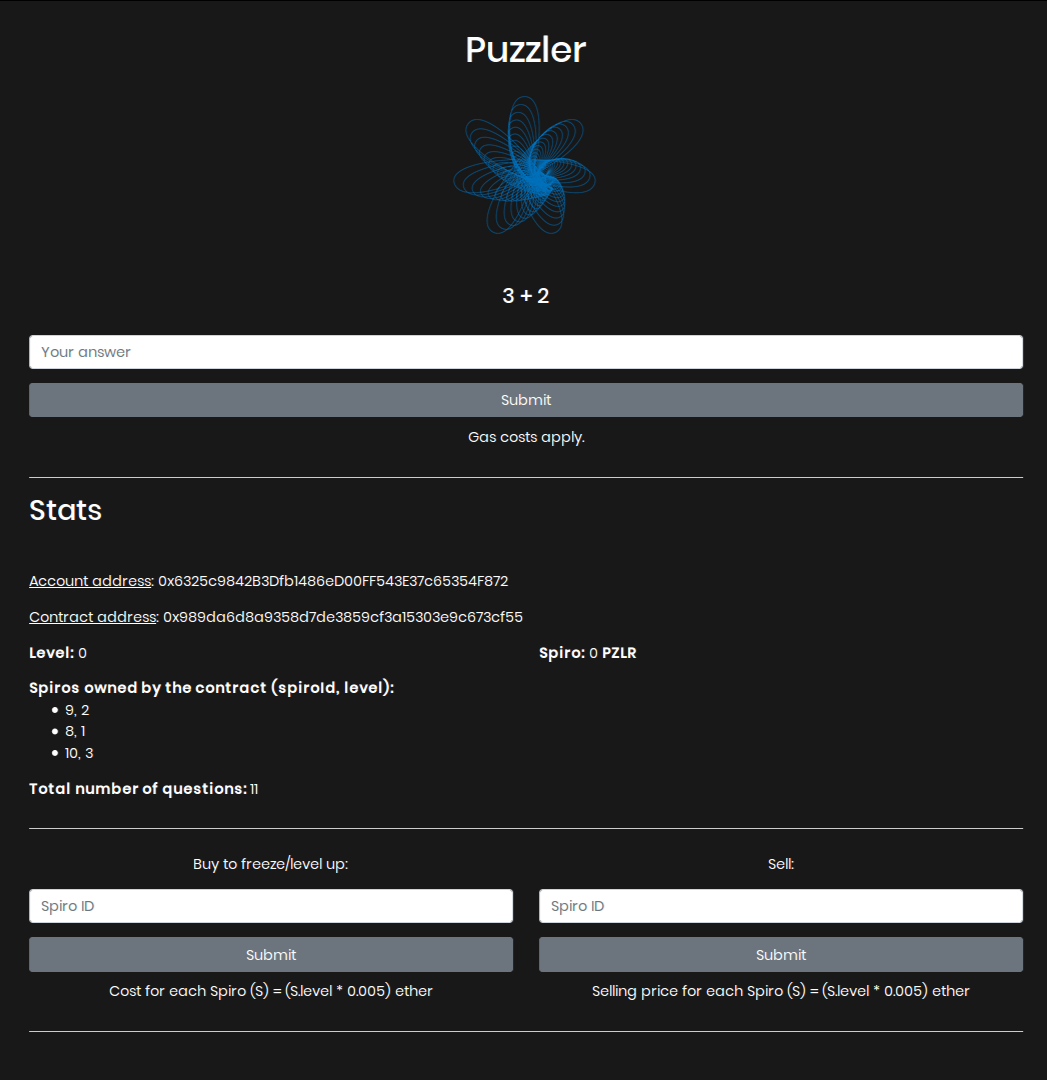
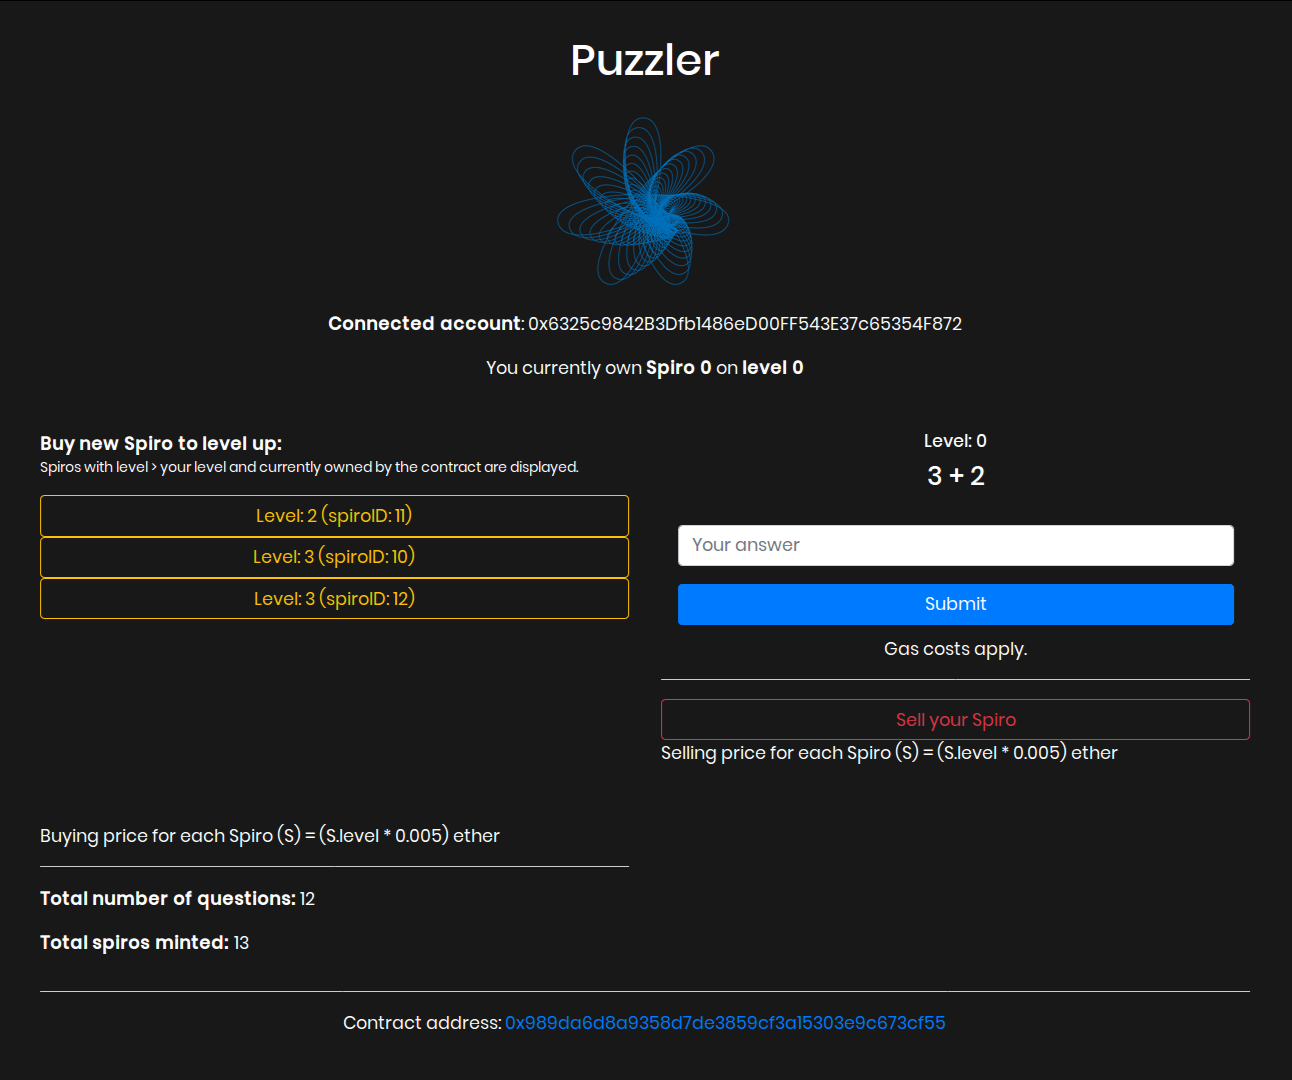
improved UI

diff --git a/src/App.vue b/src/App.vue
@@ -4,12 +4,50 @@
       <b-col>
         <h1>Puzzler</h1>
         <img src="./assets/spiro/spiro3.png" class = "unknown-viper">
+        <p><b>Connected account</b>: {{ account }}</p>
+        <p>You currently own <b>Spiro {{ spiro }}</b> on <b>level {{ level }} </b></p>
       </b-col>
     </b-row>
 
     <b-row>
+      <b-col>
+    <b-row>
+      <b-col>
+        
+        <p><b>
+          <!-- Spiros owned by the contract (spiroID, level):  -->
+          Buy new Spiro to level up:
+          <small><p>Spiros with level > your level and currently owned by the contract are displayed.</p></small>
+          </b> 
+
+          <!-- <ul> 
+            <li v-for ="i in contractSpiros"> {{ i }} </li> 
+          </ul>  -->
+          <div v-if="contractSpiros.length == 0"> <p> No Spiros available to level up. </p></div>
+          <div id = "contractSpiros">
+            <b-button v-for="i in contractSpiros" v-bind:item="i[1]" v-bind:key="i[0]"   variant="outline-warning"
+            v-on:click="buyNew(i[0])">Level: {{ i[1] }} (spiroID: {{ i[0] }})</b-button>
+          </div>
+          <span style="color:white;">Buying price for each Spiro (S) = (S.level * 0.005) ether </span>
+      </b-col>
+    </b-row>
+      <!-- <h4 class="mb-5">Stats</h4> -->
+    <hr>
+    <b-row>
+      <b-col>
+        <p><b>Total number of questions: </b> {{ questions.length }} </p>
+      </b-col>
+    </b-row>
+    <b-row>
+      <b-col>
+        <p><b>Total spiros minted: </b> {{ totalSpiros }} </p>
+      </b-col>
+    </b-row>
+      </b-col>
+      <b-col>
       <b-col class="action-container">
         <h4>
+          <h6>Level: {{ level }} </h6>
           {{ questions[level].question }}
         </h4>
         <b-form>
@@ -25,46 +63,16 @@
           </b-form-group>
           <b-button 
           v-if="!isLoading"
+          variant="primary"
           v-on:click="createSpiro" type="button">Submit</b-button>
           
           <p>Gas costs apply.</p>
         </b-form>
       </b-col>
-    </b-row>
-
-    <hr>
-    <h2 class="mb-5">Stats</h2>
-    <p><u>Account address</u>: {{ account }} </p>
-    <p><u>Contract address</u>: {{ contractAddr }} </p>
-
-    <b-row>
-      <b-col>
-        <p><b>Level: </b>{{ level }}</p>
-      </b-col>
-      <b-col>
-        <p><b>Spiro: </b> {{ spiro }} <b>PZLR</b> </p>
-      </b-col>
-    </b-row>
-    <b-row>
-      <b-col>
-        <p><b>Spiros owned by the contract (spiroID, level): </b> <ul> <li v-for ="i in contractSpiros"> {{ i }}  </li> </ul> </p>
-        <small><p>Spiros with level > 0 are displayed.</p></small>
-      </b-col>
-    </b-row>
-    <b-row>
-      <b-col>
-        <p><b>Total number of questions: </b> {{ questions.length }} </p>
-      </b-col>
-    </b-row>
-    <b-row>
-      <b-col>
-        <p><b>Total spiros minted: </b> {{ totalSpiros }} </p>
-      </b-col>
-    </b-row>
-    <hr>
-  <b-row>
-    <b-col class="action-container">
-    <b-form>
+      <hr>
+      <b-row>
+    <!-- <b-col class="action-container"> -->
+    <!-- <b-form>
         <b-col class="middle-container">
         <img v-if="isLoading" src="https://media.giphy.com/media/11cXHq5SBfWbug/giphy.gif"></b-col>
         <b-form-group v-if="!isLoading">
@@ -72,7 +80,8 @@
             <b-form-input id="spiroIdToBuy"
                           v-model="spiroIdToBuy"
                           required
-                          placeholder="Spiro ID">
+                          placeholder="Spiro ID"
+                          >
             </b-form-input>
           </b-form-group>
           <b-button 
@@ -80,37 +89,46 @@
           v-on:click="buyNew" type="button">Submit</b-button>
           
           <p>Cost for each Spiro (S) = (S.level * 0.005) ether </p>
-        </b-form>
-    </b-col>
+        </b-form> -->
+    <!-- </b-col> -->
+      <br>
+      <br> 
     <b-col class="action-container">
-    <b-form>
         <b-col class="middle-container">
         <img v-if="isLoading" src="https://media.giphy.com/media/11cXHq5SBfWbug/giphy.gif"></b-col>
-        <b-form-group v-if="!isLoading">
-          <p>Sell:</p>
-            <b-form-input id="sellSpiroId"
-                          v-model="sellSpiroId"
-                          required
-                          placeholder="Spiro ID">
-            </b-form-input>
-          </b-form-group>
-          
-      
+        <div v-if="!isLoading">
           <b-button 
+          variant="outline-danger"
           v-if="!isLoading"
-          v-on:click="sellSpiro" type="button">Submit</b-button>
-          
-          <p>Selling price for each Spiro (S) = (S.level * 0.005) ether </p>
-        </b-form>
+          v-b-modal.modal-1
+          type="button">Sell your Spiro</b-button>
+          <b-modal 
+            id="modal-1" 
+            title="Alert" 
+            @ok="sellSpiro(spiro)" 
+            ok-variant="danger"
+            ok-title="Sell Anyway" 
+            size = "sm"
+          >
+            <p class="my-4" style="color:black;">Selling your spiro resets your level to 0.</p>
+          </b-modal>
+        </div>
+          <span style="color:white;">Selling price for each Spiro (S) = (S.level * 0.005) ether </span>
     </b-col>
     </b-row>
+      </b-col>
+    </b-row>
     <hr>
+    <!-- <center><p>Hosted with &#x1F49B; at: <a href="https://ropsten.etherscan.io/address/0x989da6d8a9358d7de3859cf3a15303e9c673cf55"> {{ contractAddr }} </a> </p></center> -->
+    <center><p>Contract address: <a href="https://ropsten.etherscan.io/address/0x989da6d8a9358d7de3859cf3a15303e9c673cf55"> {{ contractAddr }} </a> </p></center>
+
   </b-container>
 </template>
 
 <script>
 import allQuestions from './components/questions.json';
 import getWeb3 from '../contracts/web3';
+// import FlipCard from 'vue-flip-card';
 import contractAbi from '../contracts/abi';
 //puzzlerContract
 const contractAddress = '0x989da6d8a9358d7de3859cf3a15303e9c673cf55';
@@ -129,8 +147,9 @@ export default {
       contractSpiros: [],
       isLoading: false,
       questions: allQuestions,
-      totalSpiros: null
-      
+      totalSpiros: null,
+      openStats: false,
+      dummyContractSpiros: null,
     };
   },
   mounted() {
@@ -138,13 +157,9 @@ export default {
       this.web3 = res;
       this.contractInstance = new this.web3.eth.Contract(contractAbi, contractAddress);
       this.web3.eth.getAccounts().then((accounts) => {
-        // [this.account] = accounts;
         this.account = accounts[0];
         this.getSpiro();
-        // this.getLevel();
-        // this.getSpiros();
         this.getContractSpiros();
-        // this.getSpirosOnSale();
         this.getTotalSpiros();
       }).catch((err) => {
         console.log(err, 'err!!');
@@ -153,29 +168,38 @@ export default {
   },
 
   methods: {
-    
+    openStats(){
+      openStats = true;
+    },
     createSpiro () {
       if (matron.value == this.questions[this.level].answer) {
-      this.isLoading = true;
-      this.contractInstance.methods.createSpiro(this.level).send({
-        from: this.account
+          this.isLoading = true;
+          if (this.level == 0) {
+          this.level ++;
+          this.isLoading = false;
+          this.getContractSpiros();
+      }
+      else {
+          this.contractInstance.methods.createSpiro(this.level).send({
+          from: this.account
       }).then((receipt) => {
         // this.addSpiroFromReceipt(receipt);
-        this.level ++;
-        this.isLoading = false;
-        this.getContractSpiros();
-
+          this.level ++;
+          this.isLoading = false;
+          this.getContractSpiros();
       }).catch((err) => {
-        console.log(err, 'err');
-        this.isLoading = false;
+          console.log(err, 'err');
+          this.isLoading = false;
       })
-      } else {
+      } 
+      }else {
         console.log("matron value");
         console.log(matron.value);
         console.log ("answer is");
         console.log (this.questions[this.level].answer);
         alert ("This isn't the right answer");
       }
+      
       // this.getContractSpiros();
     }, 
     getTotalSpiros() {
@@ -186,12 +210,12 @@ export default {
         this.totalSpiros = totalSupply;
       });
     },
-    buyNew () {
+    buyNew (id) {
       let lvl;
       let amt;
       this.isLoading = true;
 
-      this.contractInstance.methods.spiros(this.spiroIdToBuy).call({
+      this.contractInstance.methods.spiros(id).call({
           from: this.account
         }).then((s) => {
           lvl = s.level;
@@ -200,14 +224,14 @@ export default {
           // console.log("level: ", lvl);
           }).then((amt)=> {
             console.log ("amt", amt);
-            this.contractInstance.methods.buyNewSpiro(this.spiroIdToBuy).send({
+            this.contractInstance.methods.buyNewSpiro(id).send({
                 from: this.account,
                 value: web3.toWei(amt, 'ether')
             }).then((receipt) => {
-        this.spiro = this.spiroIdToBuy;
+        this.spiro = id;
         this.isLoading = false;
-        this.getContractSpiros();
         this.getSpiro();
+        this.getContractSpiros();
       }).catch((err) => {
         console.log (err);
         this.isLoading = false;
@@ -244,34 +268,36 @@ export default {
       this.contractInstance.methods.getSpiros().call({
         from: this.account
       }).then((allSpiros) => {
-        this.contractSpiros = [];
-
-        let cS = allSpiros;
+        this.contractSpiros = [];        
         
-        console.log ("user spiro set to: ", cS);
+        let dCS = [];
+        let cS = allSpiros;
+
+        let first, second;
 
         for (let i = 0; i < cS.length; i++) {
           this.contractInstance.methods.spiros(cS[i]).call ({
             from:this.account 
           }).then((spiro) => {
-            console.log ("level for", spiro, " is ", spiro.level);      
-            if (spiro.level != 0) {
-              cS[i] += ", "  + spiro.level;
-              this.contractSpiros.push(cS[i]);
+            if (spiro.level != 0 && spiro.level > this.level) {
+              first = cS[i];
+              second = spiro.level;
+              // cS[i] += ", "  + spiro.level;
+              // this.contractSpiros.push(cS[i]);
+              this.contractSpiros.push([first, second]);
+              dCS.push([first, second]);
             }
           })
         }
-
-        console.log("contractSpiros: ", this.contractSpiros);
-
       }).catch((err) => {
         console.log (err, 'err');
       });
     },
 
-    sellSpiro () {
+    sellSpiro (id) {
+      if (id != 0) {
       this.isLoading = true;
-      this.contractInstance.methods.sellSpiro(this.sellSpiroId).send({
+      this.contractInstance.methods.sellSpiro(id).send({
         from: this.account
       }).then((receipt) => {
         console.log(receipt);
@@ -279,6 +305,9 @@ export default {
         this.getContractSpiros();
         this.isLoading = false;
       });
+      } else {
+        alert ("0th Spiro cannot be sold. Answer questions/ buy new spiros to level up.");
+      }
     }
   },
 };
@@ -301,6 +330,11 @@ hr { display: block; height: 1px;
     margin: 1em 0; padding: 0; }
  body {
   background-color: rgb(24,24,24);
+  /* font-color: white; */
+}
+#contractSpiros {
+  height: 300px;
+  overflow-y: auto;
 }
 .header-row {
   text-align: center;
